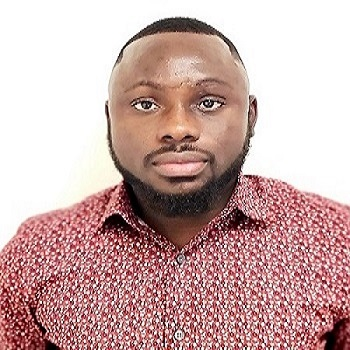
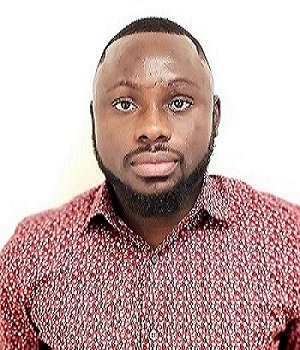
commit

diff --git a/public/css/foundation.css b/public/css/foundation.css
@@ -443,7 +443,7 @@ html {
 body {
   margin: 0;
   padding: 0;
-  background: #fefefe;
+  background: silver;
   font-family: "Helvetica Neue", Helvetica, Roboto, Arial, sans-serif;
   font-weight: normal;
   line-height: 1.5;
